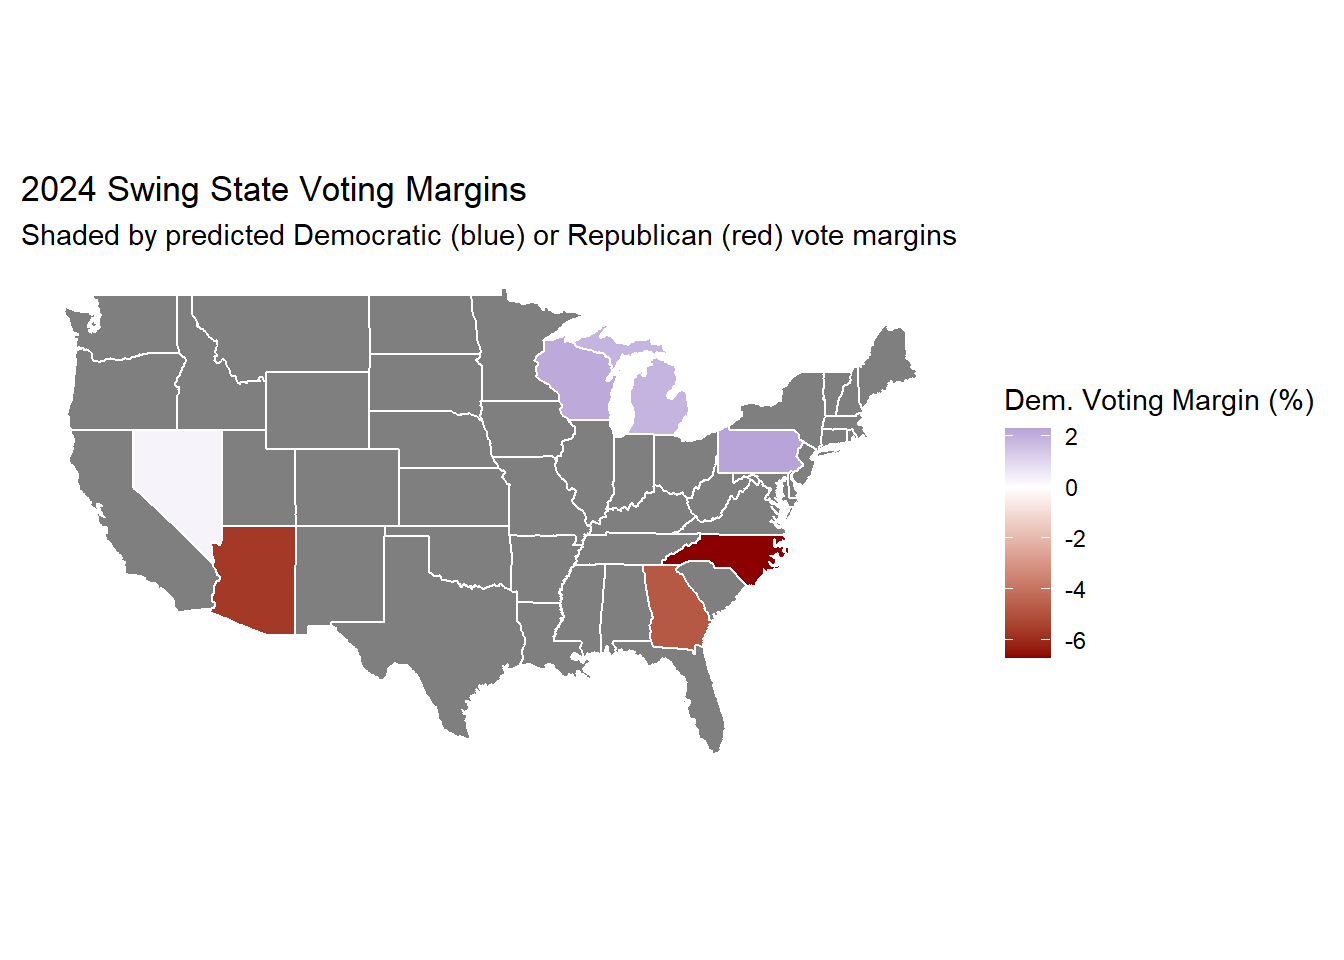
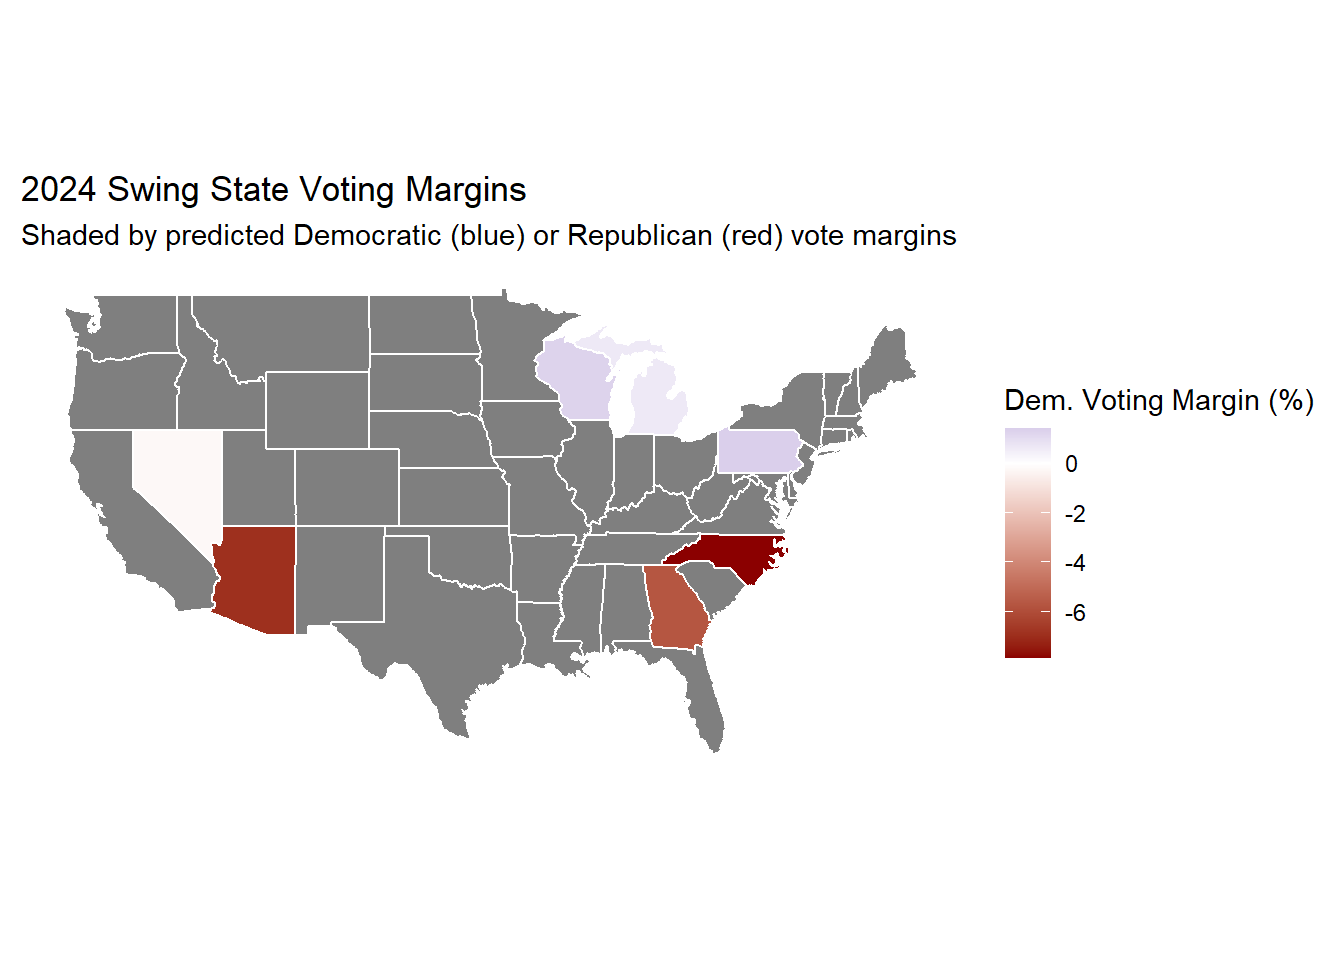
done

Changed region(s): [[0.375, 0.3438, 0.5312, 0.4688], [0.75, 0.4375, 0.8125, 0.6875], [0.5312, 0.4375, 0.5938, 0.5]]

diff --git a/public/post/2024/10/21/super-ensembling-simulations/index.html b/public/post/2024/10/21/super-ensembling-simulations/index.html
@@ -36,6 +36,7 @@
 <main>
 <h1 id="introduction">Introduction</h1>
 <h1 id="national-two-party-vote-share">National Two Party Vote Share</h1>
+<p>Given the limited role of the national popular vote in determining the outcome of U.S. elections, I have decided to retain the model I presented in Week 5, despite its acknowledged flaws, which I addressed in last week’s post. I am unlikely to update this prediction further and will instead focus on my state-level model.</p>
 <table style="border-collapse:collapse; border:none;">
 <caption style="font-weight: bold; text-align:left;">2024 Democrat Two Party Vote Share via Linear Regression</caption>
 <tr>
@@ -50,10 +51,15 @@
 </tr>
 </table>
 <h1 id="linear-model">Linear Model</h1>
+<p>This week, I made significant quality improvements to my linear model, which has evolved since Week 5. First, I updated the polling data to reflect the most recent results. Instead of using an average polling score across all weeks, I replaced it with an average from the most recent polling week.</p>
+<p>The first major improvement was the addition of lagged vote shares from the two previous election cycles as a covariate in my model. Historical data tends to be a strong predictor of future outcomes, and I observed a reduction in in-sample MSE after incorporating this variable. The second key update involved changing the national-level economic variable. Over the past two weeks, I used Quarter 2 growth in real disposable income, even though my earlier analysis (in Week 2) indicated that Quarter 2 unemployment was a better indicator. After testing which model resulted in a lower in-sample MSE, I reverted to using unemployment growth.</p>
+<p>Previously, my model only used data from elections up to 2016, excluding 2020 due to the economic outliers caused by the pandemic. However, I trained the model in this iteration using data only up to 2012 so I could use the 2016 election to evaluate out-of-sample MSE. I will explain the necessity of out-of-sample MSE later.  The exclusion of a solid Republican electoral college victory from the training set may have biased this model toward the Democrats compared to last week’s version.</p>
+<p>The most significant change, however, lies in the methodology for predicting the two-party vote share of a state. Previously, I relied solely on data filtered to the Democratic party, which resulted in unconstrained predictions. If I built the same model for Republicans, the combined predicted vote shares could exceed 100%. Moreover, in extreme cases, a state could hypothetically surpass 100% vote share for one party, though this was unlikely in swing states. To address this, I duplicated the model for Republicans, predicted their vote shares, and then rescaled the predicted Democratic and Republican shares to sum to 100%, providing a more accurate margin.</p>
 <pre><code>## [1] &quot;In-sample MSE for Optimized LM Model: 1.77876259651781&quot;
 </code></pre>
 <pre><code>## [1] &quot;Out-sample MSE for Optimized LM Model: 3.66463924611509&quot;
 </code></pre>
+<p>The immediate improvement is clear: the in-sample MSE dropped from 5.55 last week to less than 1.8 this week. The model performed well when predicting the 2016 election with an out-of-sample MSE of 3.67. These reductions in MSE suggest that this model is more robust than last week’s, though the exclusion of 2016 could also contribute to the improvements.</p>
 <table style="border-collapse:collapse; border:none;">
 <caption style="font-weight: bold; text-align:left;">Summary of Democrat Vote Share Model</caption>
 <tr>
@@ -192,14 +198,18 @@
 <td style=" padding:0.2cm; text-align:left; vertical-align:top; text-align:center; border-bottom: double; ">6.01%</td>
 </tr>
 </table>
+<p>For the 2024 predictions, this model flips Georgia from Trump to Harris by a margin of 0.5 points, whereas last week’s model predicted a narrow Trump win. Interestingly, for the other swing states where the expected winner remained the same—Nevada, Wisconsin, Michigan, and Pennsylvania for Harris, and Arizona and North Carolina for Trump—the margin of victory increased for both parties compared to last week. I am uncertain which specific model adjustment caused this, though I believe the addition of lagged vote share as a covariate played a role.</p>
 <h1 id="ensemble-model">Ensemble Model</h1>
-<pre><code>## [1] &quot;In-sample MSE for Ensemble Model (Democrat): 7.77770935294101&quot;
+<p>While I believe my linear model is strong, I thought I could enhance its accuracy and reduce overfitting by creating an ensemble model that combines multiple models. As a result, I developed an ensemble model using three distinct models. The first model focuses solely on fundamentals, excluding polling altogether. It is similar to the linear model but without polling-based covariates, using Q2 real disposable income growth as the sole economic indicator. The second model relies entirely on polling, using the two trend variables and the average polling from the most recent week (currently week 3). The third model is identical to the second one.</p>
+<p>Using the 2016 election results, I applied constrained optimization to determine the weights for each model. I observed that for Democrats, the third model tended to yield disproportionately higher predictions, leading to it being weighted more heavily. Similarly, the first model had a higher weight for Republicans.</p>
+<p>After developing the ensemble model, I calculated the in-sample MSE using the training data and the out-of-sample MSE using the 2016 data. As expected from a supervised learning model, the in-sample MSE was higher than that of the linear model, while the out-of-sample MSE was lower.</p>
+<pre><code>## [1] &quot;In-sample MSE for Ensemble Model (Democrat): 6.71465280630496&quot;
 </code></pre>
-<pre><code>## [1] &quot;In-sample MSE for Ensemble Model (Republican): 4.80193656647045&quot;
+<pre><code>## [1] &quot;In-sample MSE for Ensemble Model (Republican): 4.89529595168979&quot;
 </code></pre>
-<pre><code>## [1] &quot;Out-sample MSE for Ensemble Model (Democrat): 2.24877477301082&quot;
+<pre><code>## [1] &quot;Out-sample MSE for Ensemble Model (Democrat): 2.1882978374969&quot;
 </code></pre>
-<pre><code>## [1] &quot;Out-sample MSE for Ensemble Model (Republican: 3.5026609257715&quot;
+<pre><code>## [1] &quot;Out-sample MSE for Ensemble Model (Republican: 3.22497868787428&quot;
 </code></pre>
 <table style="border-collapse:collapse; border:none;">
 <caption style="font-weight: bold; text-align:left;">Ensemble Predictions</caption>
@@ -211,48 +221,50 @@
 </tr>
 <tr>
 <td style=" padding:0.2cm; text-align:left; vertical-align:top; text-align:left; ">Arizona</td>
-<td style=" padding:0.2cm; text-align:left; vertical-align:top; text-align:center; ">47.19%</td>
-<td style=" padding:0.2cm; text-align:left; vertical-align:top; text-align:center; ">52.81%</td>
-<td style=" padding:0.2cm; text-align:left; vertical-align:top; text-align:center; ">-5.62%</td>
+<td style=" padding:0.2cm; text-align:left; vertical-align:top; text-align:center; ">46.54%</td>
+<td style=" padding:0.2cm; text-align:left; vertical-align:top; text-align:center; ">53.46%</td>
+<td style=" padding:0.2cm; text-align:left; vertical-align:top; text-align:center; ">-6.91%</td>
 </tr>
 <tr>
 <td style=" padding:0.2cm; text-align:left; vertical-align:top; text-align:left; ">Georgia</td>
-<td style=" padding:0.2cm; text-align:left; vertical-align:top; text-align:center; ">47.62%</td>
-<td style=" padding:0.2cm; text-align:left; vertical-align:top; text-align:center; ">52.38%</td>
-<td style=" padding:0.2cm; text-align:left; vertical-align:top; text-align:center; ">-4.76%</td>
+<td style=" padding:0.2cm; text-align:left; vertical-align:top; text-align:center; ">47.15%</td>
+<td style=" padding:0.2cm; text-align:left; vertical-align:top; text-align:center; ">52.85%</td>
+<td style=" padding:0.2cm; text-align:left; vertical-align:top; text-align:center; ">-5.7%</td>
 </tr>
 <tr>
 <td style=" padding:0.2cm; text-align:left; vertical-align:top; text-align:left; ">Michigan</td>
-<td style=" padding:0.2cm; text-align:left; vertical-align:top; text-align:center; ">50.95%</td>
-<td style=" padding:0.2cm; text-align:left; vertical-align:top; text-align:center; ">49.05%</td>
-<td style=" padding:0.2cm; text-align:left; vertical-align:top; text-align:center; ">1.89%</td>
+<td style=" padding:0.2cm; text-align:left; vertical-align:top; text-align:center; ">50.32%</td>
+<td style=" padding:0.2cm; text-align:left; vertical-align:top; text-align:center; ">49.68%</td>
+<td style=" padding:0.2cm; text-align:left; vertical-align:top; text-align:center; ">0.64%</td>
 </tr>
 <tr>
 <td style=" padding:0.2cm; text-align:left; vertical-align:top; text-align:left; ">Nevada</td>
-<td style=" padding:0.2cm; text-align:left; vertical-align:top; text-align:center; ">50.15%</td>
-<td style=" padding:0.2cm; text-align:left; vertical-align:top; text-align:center; ">49.85%</td>
-<td style=" padding:0.2cm; text-align:left; vertical-align:top; text-align:center; ">0.3%</td>
+<td style=" padding:0.2cm; text-align:left; vertical-align:top; text-align:center; ">49.89%</td>
+<td style=" padding:0.2cm; text-align:left; vertical-align:top; text-align:center; ">50.11%</td>
+<td style=" padding:0.2cm; text-align:left; vertical-align:top; text-align:center; ">-0.22%</td>
 </tr>
 <tr>
 <td style=" padding:0.2cm; text-align:left; vertical-align:top; text-align:left; ">North Carolina</td>
-<td style=" padding:0.2cm; text-align:left; vertical-align:top; text-align:center; ">46.66%</td>
-<td style=" padding:0.2cm; text-align:left; vertical-align:top; text-align:center; ">53.34%</td>
-<td style=" padding:0.2cm; text-align:left; vertical-align:top; text-align:center; ">-6.69%</td>
+<td style=" padding:0.2cm; text-align:left; vertical-align:top; text-align:center; ">46.06%</td>
+<td style=" padding:0.2cm; text-align:left; vertical-align:top; text-align:center; ">53.94%</td>
+<td style=" padding:0.2cm; text-align:left; vertical-align:top; text-align:center; ">-7.88%</td>
 </tr>
 <tr>
 <td style=" padding:0.2cm; text-align:left; vertical-align:top; text-align:left; ">Pennsylvania</td>
-<td style=" padding:0.2cm; text-align:left; vertical-align:top; text-align:center; ">51.15%</td>
-<td style=" padding:0.2cm; text-align:left; vertical-align:top; text-align:center; ">48.85%</td>
-<td style=" padding:0.2cm; text-align:left; vertical-align:top; text-align:center; ">2.29%</td>
+<td style=" padding:0.2cm; text-align:left; vertical-align:top; text-align:center; ">50.7%</td>
+<td style=" padding:0.2cm; text-align:left; vertical-align:top; text-align:center; ">49.3%</td>
+<td style=" padding:0.2cm; text-align:left; vertical-align:top; text-align:center; ">1.41%</td>
 </tr>
 <tr>
 <td style=" padding:0.2cm; text-align:left; vertical-align:top; text-align:left; border-bottom: double; ">Wisconsin</td>
-<td style=" padding:0.2cm; text-align:left; vertical-align:top; text-align:center; border-bottom: double; ">51.07%</td>
-<td style=" padding:0.2cm; text-align:left; vertical-align:top; text-align:center; border-bottom: double; ">48.93%</td>
-<td style=" padding:0.2cm; text-align:left; vertical-align:top; text-align:center; border-bottom: double; ">2.14%</td>
+<td style=" padding:0.2cm; text-align:left; vertical-align:top; text-align:center; border-bottom: double; ">50.65%</td>
+<td style=" padding:0.2cm; text-align:left; vertical-align:top; text-align:center; border-bottom: double; ">49.35%</td>
+<td style=" padding:0.2cm; text-align:left; vertical-align:top; text-align:center; border-bottom: double; ">1.3%</td>
 </tr>
 </table>
+<p>For the 2024 predictions in swing states, the model assigns Nevada, Pennsylvania, Wisconsin, and Michigan to Harris, while Trump is projected to win Arizona, Georgia, and North Carolina. This would result in Vice President Harris winning the electoral college with 276 votes to Trump’s 262.</p>
 <img src="https://example.org/post/2024/10/21/super-ensembling-simulations/index_files/figure-html/unnamed-chunk-59-1.png" width="672" />
+<p>Overall, I’m pleased with the improvements the ensemble model brings to my predictions, and I plan to continue using it in the future. Additionally, I hope to integrate a regularization method for polling and further improve the model with simulations to estimate likelihood of either candidate winning or losing. Thanks!</p>
 
 </main>
 

diff --git a/content/post/2024-10-21-super-ensembling-simulations/index.md b/content/post/2024-10-21-super-ensembling-simulations/index.md
@@ -128,6 +128,8 @@ tags: []
 
 # National Two Party Vote Share
 
+Given the limited role of the national popular vote in determining the outcome of U.S. elections, I have decided to retain the model I presented in Week 5, despite its acknowledged flaws, which I addressed in last week’s post. I am unlikely to update this prediction further and will instead focus on my state-level model.
+
 <table style="border-collapse:collapse; border:none;">
 <caption style="font-weight: bold; text-align:left;">2024 Democrat Two Party Vote Share via Linear Regression</caption>
 <tr>
@@ -143,7 +145,18 @@ tags: []
 </table>
 
 
+
 # Linear Model
+
+This week, I made significant quality improvements to my linear model, which has evolved since Week 5. First, I updated the polling data to reflect the most recent results. Instead of using an average polling score across all weeks, I replaced it with an average from the most recent polling week.
+
+The first major improvement was the addition of lagged vote shares from the two previous election cycles as a covariate in my model. Historical data tends to be a strong predictor of future outcomes, and I observed a reduction in in-sample MSE after incorporating this variable. The second key update involved changing the national-level economic variable. Over the past two weeks, I used Quarter 2 growth in real disposable income, even though my earlier analysis (in Week 2) indicated that Quarter 2 unemployment was a better indicator. After testing which model resulted in a lower in-sample MSE, I reverted to using unemployment growth.
+
+Previously, my model only used data from elections up to 2016, excluding 2020 due to the economic outliers caused by the pandemic. However, I trained the model in this iteration using data only up to 2012 so I could use the 2016 election to evaluate out-of-sample MSE. I will explain the necessity of out-of-sample MSE later.  The exclusion of a solid Republican electoral college victory from the training set may have biased this model toward the Democrats compared to last week’s version.
+
+The most significant change, however, lies in the methodology for predicting the two-party vote share of a state. Previously, I relied solely on data filtered to the Democratic party, which resulted in unconstrained predictions. If I built the same model for Republicans, the combined predicted vote shares could exceed 100%. Moreover, in extreme cases, a state could hypothetically surpass 100% vote share for one party, though this was unlikely in swing states. To address this, I duplicated the model for Republicans, predicted their vote shares, and then rescaled the predicted Democratic and Republican shares to sum to 100%, providing a more accurate margin.
+
+
 
 
 ```
@@ -154,6 +167,8 @@ tags: []
 ## [1] "Out-sample MSE for Optimized LM Model: 3.66463924611509"
 ```
 
+
+The immediate improvement is clear: the in-sample MSE dropped from 5.55 last week to less than 1.8 this week. The model performed well when predicting the 2016 election with an out-of-sample MSE of 3.67. These reductions in MSE suggest that this model is more robust than last week’s, though the exclusion of 2016 could also contribute to the improvements.
 <table style="border-collapse:collapse; border:none;">
 <caption style="font-weight: bold; text-align:left;">Summary of Democrat Vote Share Model</caption>
 <tr>
@@ -296,25 +311,34 @@ tags: []
 </tr>
 </table>
 
+For the 2024 predictions, this model flips Georgia from Trump to Harris by a margin of 0.5 points, whereas last week’s model predicted a narrow Trump win. Interestingly, for the other swing states where the expected winner remained the same—Nevada, Wisconsin, Michigan, and Pennsylvania for Harris, and Arizona and North Carolina for Trump—the margin of victory increased for both parties compared to last week. I am uncertain which specific model adjustment caused this, though I believe the addition of lagged vote share as a covariate played a role.
+
 
 # Ensemble Model
 
+While I believe my linear model is strong, I thought I could enhance its accuracy and reduce overfitting by creating an ensemble model that combines multiple models. As a result, I developed an ensemble model using three distinct models. The first model focuses solely on fundamentals, excluding polling altogether. It is similar to the linear model but without polling-based covariates, using Q2 real disposable income growth as the sole economic indicator. The second model relies entirely on polling, using the two trend variables and the average polling from the most recent week (currently week 3). The third model is identical to the second one.
 
-```
-## [1] "In-sample MSE for Ensemble Model (Democrat): 7.77770935294101"
-```
+Using the 2016 election results, I applied constrained optimization to determine the weights for each model. I observed that for Democrats, the third model tended to yield disproportionately higher predictions, leading to it being weighted more heavily. Similarly, the first model had a higher weight for Republicans.
 
-```
-## [1] "In-sample MSE for Ensemble Model (Republican): 4.80193656647045"
-```
+After developing the ensemble model, I calculated the in-sample MSE using the training data and the out-of-sample MSE using the 2016 data. As expected from a supervised learning model, the in-sample MSE was higher than that of the linear model, while the out-of-sample MSE was lower.
 
 
+
 ```
-## [1] "Out-sample MSE for Ensemble Model (Democrat): 2.24877477301082"
+## [1] "In-sample MSE for Ensemble Model (Democrat): 6.71465280630496"
 ```
 
 ```
-## [1] "Out-sample MSE for Ensemble Model (Republican: 3.5026609257715"
+## [1] "In-sample MSE for Ensemble Model (Republican): 4.89529595168979"
+```
+
+
+```
+## [1] "Out-sample MSE for Ensemble Model (Democrat): 2.1882978374969"
+```
+
+```
+## [1] "Out-sample MSE for Ensemble Model (Republican: 3.22497868787428"
 ```
 
 <table style="border-collapse:collapse; border:none;">
@@ -327,48 +351,51 @@ tags: []
 </tr>
 <tr>
 <td style=" padding:0.2cm; text-align:left; vertical-align:top; text-align:left; ">Arizona</td>
-<td style=" padding:0.2cm; text-align:left; vertical-align:top; text-align:center; ">47.19%</td>
-<td style=" padding:0.2cm; text-align:left; vertical-align:top; text-align:center; ">52.81%</td>
-<td style=" padding:0.2cm; text-align:left; vertical-align:top; text-align:center; ">-5.62%</td>
+<td style=" padding:0.2cm; text-align:left; vertical-align:top; text-align:center; ">46.54%</td>
+<td style=" padding:0.2cm; text-align:left; vertical-align:top; text-align:center; ">53.46%</td>
+<td style=" padding:0.2cm; text-align:left; vertical-align:top; text-align:center; ">-6.91%</td>
 </tr>
 <tr>
 <td style=" padding:0.2cm; text-align:left; vertical-align:top; text-align:left; ">Georgia</td>
-<td style=" padding:0.2cm; text-align:left; vertical-align:top; text-align:center; ">47.62%</td>
-<td style=" padding:0.2cm; text-align:left; vertical-align:top; text-align:center; ">52.38%</td>
-<td style=" padding:0.2cm; text-align:left; vertical-align:top; text-align:center; ">-4.76%</td>
+<td style=" padding:0.2cm; text-align:left; vertical-align:top; text-align:center; ">47.15%</td>
+<td style=" padding:0.2cm; text-align:left; vertical-align:top; text-align:center; ">52.85%</td>
+<td style=" padding:0.2cm; text-align:left; vertical-align:top; text-align:center; ">-5.7%</td>
 </tr>
 <tr>
 <td style=" padding:0.2cm; text-align:left; vertical-align:top; text-align:left; ">Michigan</td>
-<td style=" padding:0.2cm; text-align:left; vertical-align:top; text-align:center; ">50.95%</td>
-<td style=" padding:0.2cm; text-align:left; vertical-align:top; text-align:center; ">49.05%</td>
-<td style=" padding:0.2cm; text-align:left; vertical-align:top; text-align:center; ">1.89%</td>
+<td style=" padding:0.2cm; text-align:left; vertical-align:top; text-align:center; ">50.32%</td>
+<td style=" padding:0.2cm; text-align:left; vertical-align:top; text-align:center; ">49.68%</td>
+<td style=" padding:0.2cm; text-align:left; vertical-align:top; text-align:center; ">0.64%</td>
 </tr>
 <tr>
 <td style=" padding:0.2cm; text-align:left; vertical-align:top; text-align:left; ">Nevada</td>
-<td style=" padding:0.2cm; text-align:left; vertical-align:top; text-align:center; ">50.15%</td>
-<td style=" padding:0.2cm; text-align:left; vertical-align:top; text-align:center; ">49.85%</td>
-<td style=" padding:0.2cm; text-align:left; vertical-align:top; text-align:center; ">0.3%</td>
+<td style=" padding:0.2cm; text-align:left; vertical-align:top; text-align:center; ">49.89%</td>
+<td style=" padding:0.2cm; text-align:left; vertical-align:top; text-align:center; ">50.11%</td>
+<td style=" padding:0.2cm; text-align:left; vertical-align:top; text-align:center; ">-0.22%</td>
 </tr>
 <tr>
 <td style=" padding:0.2cm; text-align:left; vertical-align:top; text-align:left; ">North Carolina</td>
-<td style=" padding:0.2cm; text-align:left; vertical-align:top; text-align:center; ">46.66%</td>
-<td style=" padding:0.2cm; text-align:left; vertical-align:top; text-align:center; ">53.34%</td>
-<td style=" padding:0.2cm; text-align:left; vertical-align:top; text-align:center; ">-6.69%</td>
+<td style=" padding:0.2cm; text-align:left; vertical-align:top; text-align:center; ">46.06%</td>
+<td style=" padding:0.2cm; text-align:left; vertical-align:top; text-align:center; ">53.94%</td>
+<td style=" padding:0.2cm; text-align:left; vertical-align:top; text-align:center; ">-7.88%</td>
 </tr>
 <tr>
 <td style=" padding:0.2cm; text-align:left; vertical-align:top; text-align:left; ">Pennsylvania</td>
-<td style=" padding:0.2cm; text-align:left; vertical-align:top; text-align:center; ">51.15%</td>
-<td style=" padding:0.2cm; text-align:left; vertical-align:top; text-align:center; ">48.85%</td>
-<td style=" padding:0.2cm; text-align:left; vertical-align:top; text-align:center; ">2.29%</td>
+<td style=" padding:0.2cm; text-align:left; vertical-align:top; text-align:center; ">50.7%</td>
+<td style=" padding:0.2cm; text-align:left; vertical-align:top; text-align:center; ">49.3%</td>
+<td style=" padding:0.2cm; text-align:left; vertical-align:top; text-align:center; ">1.41%</td>
 </tr>
 <tr>
 <td style=" padding:0.2cm; text-align:left; vertical-align:top; text-align:left; border-bottom: double; ">Wisconsin</td>
-<td style=" padding:0.2cm; text-align:left; vertical-align:top; text-align:center; border-bottom: double; ">51.07%</td>
-<td style=" padding:0.2cm; text-align:left; vertical-align:top; text-align:center; border-bottom: double; ">48.93%</td>
-<td style=" padding:0.2cm; text-align:left; vertical-align:top; text-align:center; border-bottom: double; ">2.14%</td>
+<td style=" padding:0.2cm; text-align:left; vertical-align:top; text-align:center; border-bottom: double; ">50.65%</td>
+<td style=" padding:0.2cm; text-align:left; vertical-align:top; text-align:center; border-bottom: double; ">49.35%</td>
+<td style=" padding:0.2cm; text-align:left; vertical-align:top; text-align:center; border-bottom: double; ">1.3%</td>
 </tr>
 </table>
 
+For the 2024 predictions in swing states, the model assigns Nevada, Pennsylvania, Wisconsin, and Michigan to Harris, while Trump is projected to win Arizona, Georgia, and North Carolina. This would result in Vice President Harris winning the electoral college with 276 votes to Trump’s 262.
 
 <img src="{{< blogdown/postref >}}index_files/figure-html/unnamed-chunk-59-1.png" width="672" />
 
+
+Overall, I’m pleased with the improvements the ensemble model brings to my predictions, and I plan to continue using it in the future. Additionally, I hope to integrate a regularization method for polling and further improve the model with simulations to estimate likelihood of either candidate winning or losing. Thanks!
